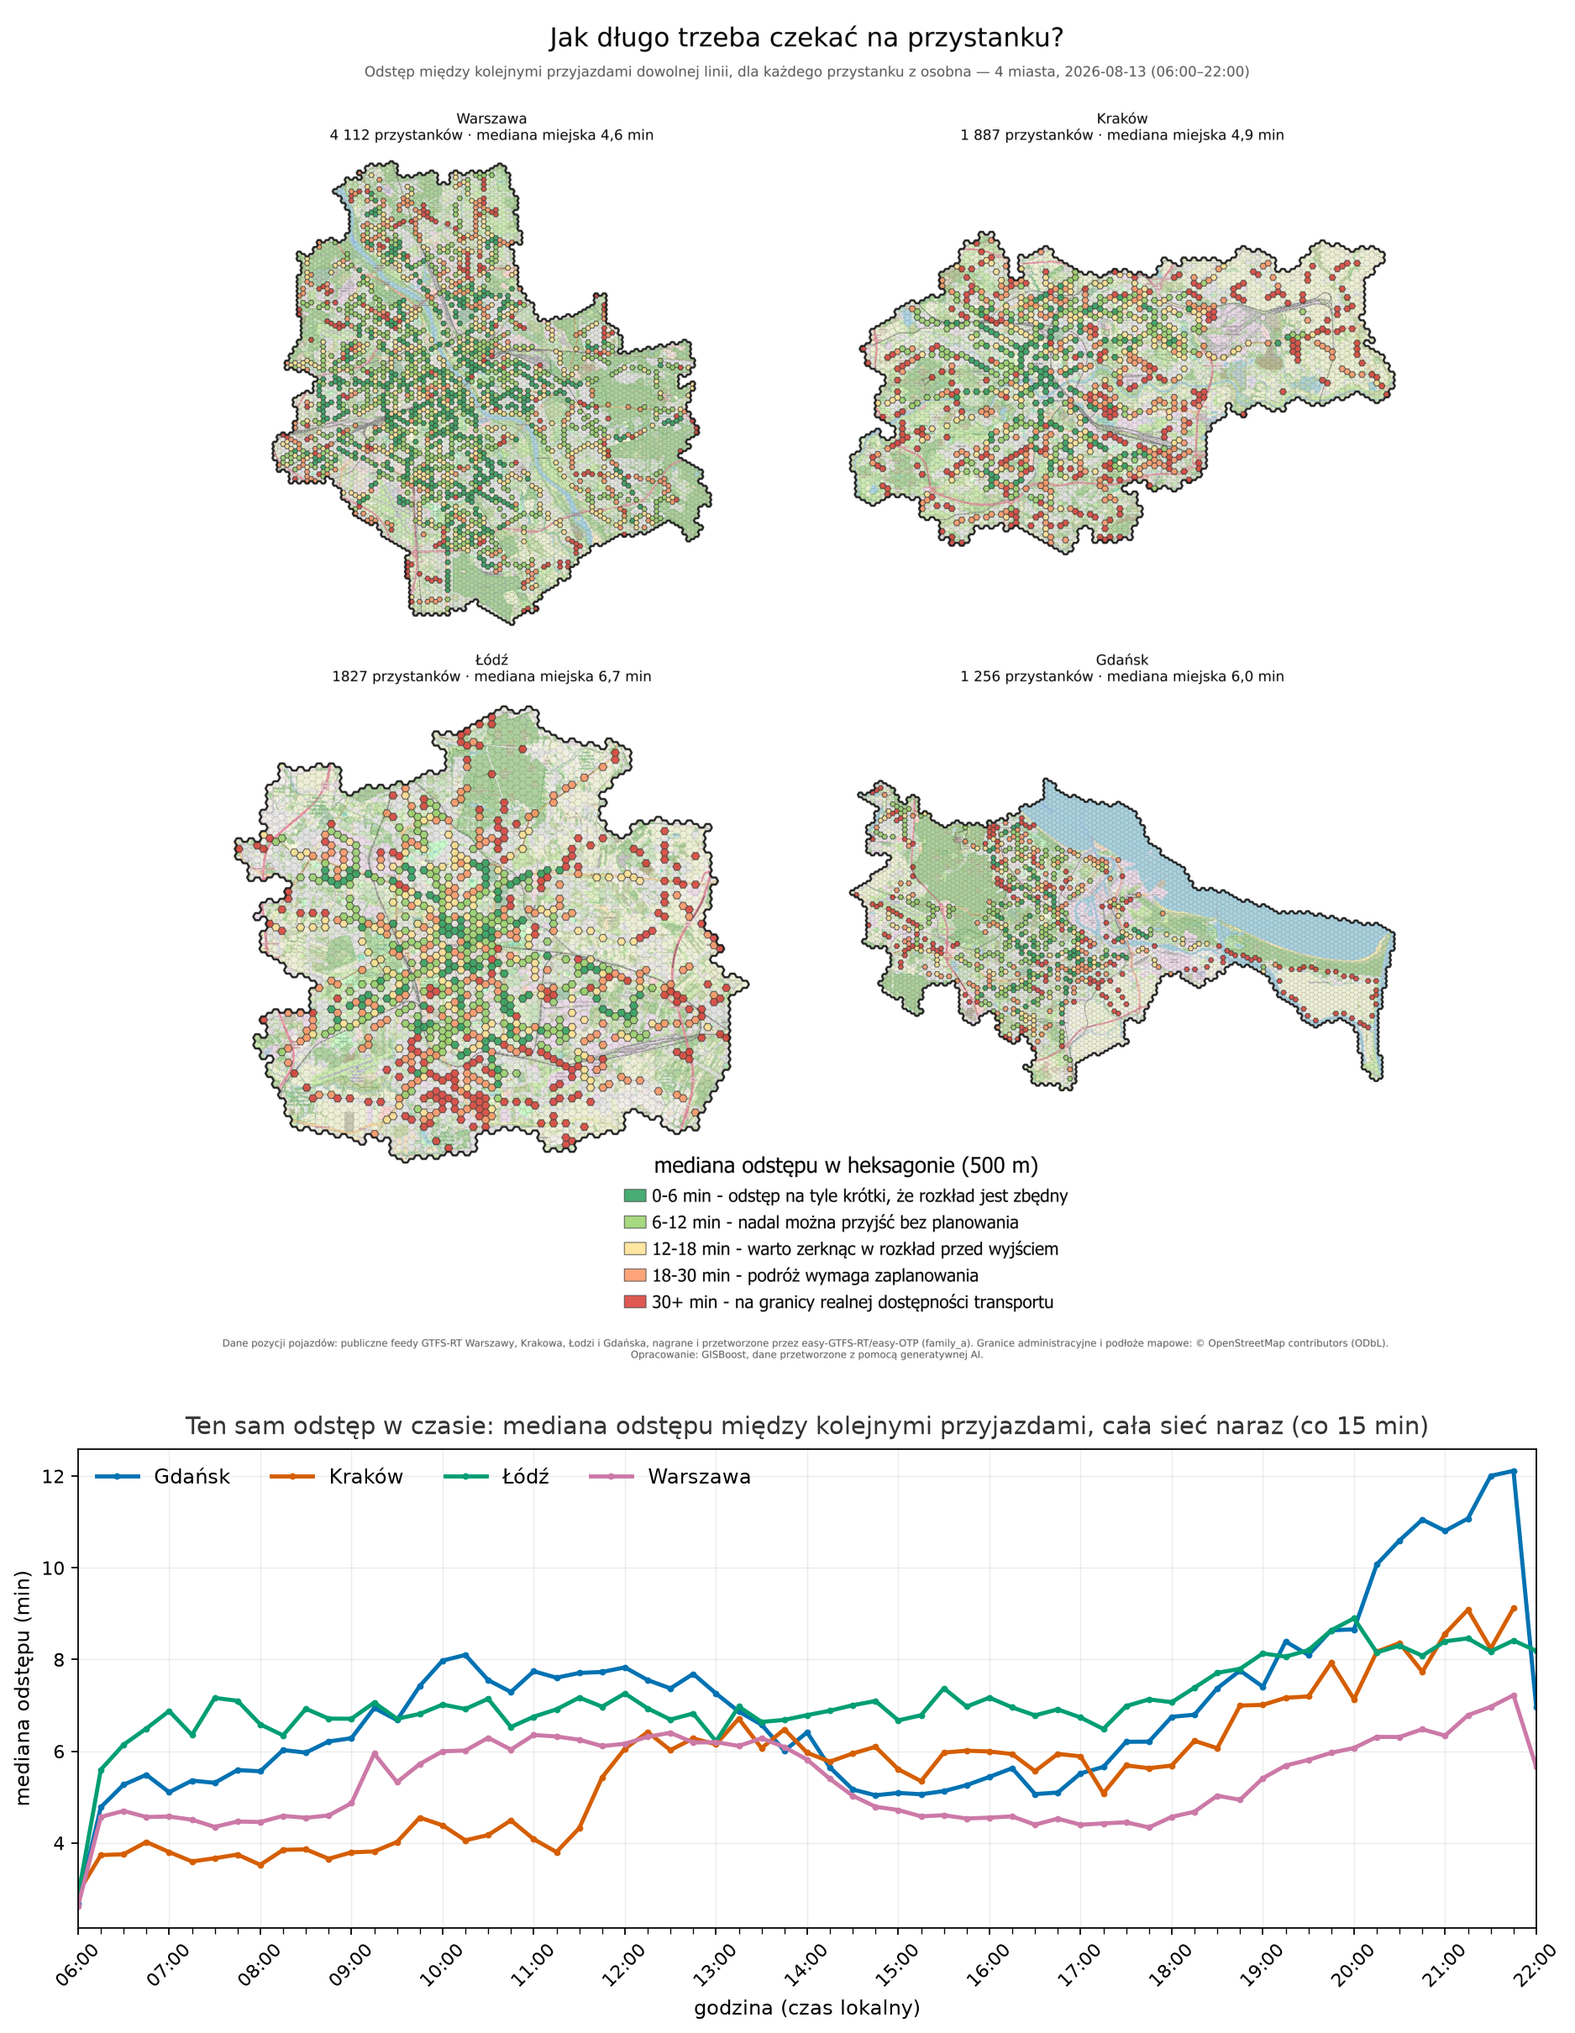
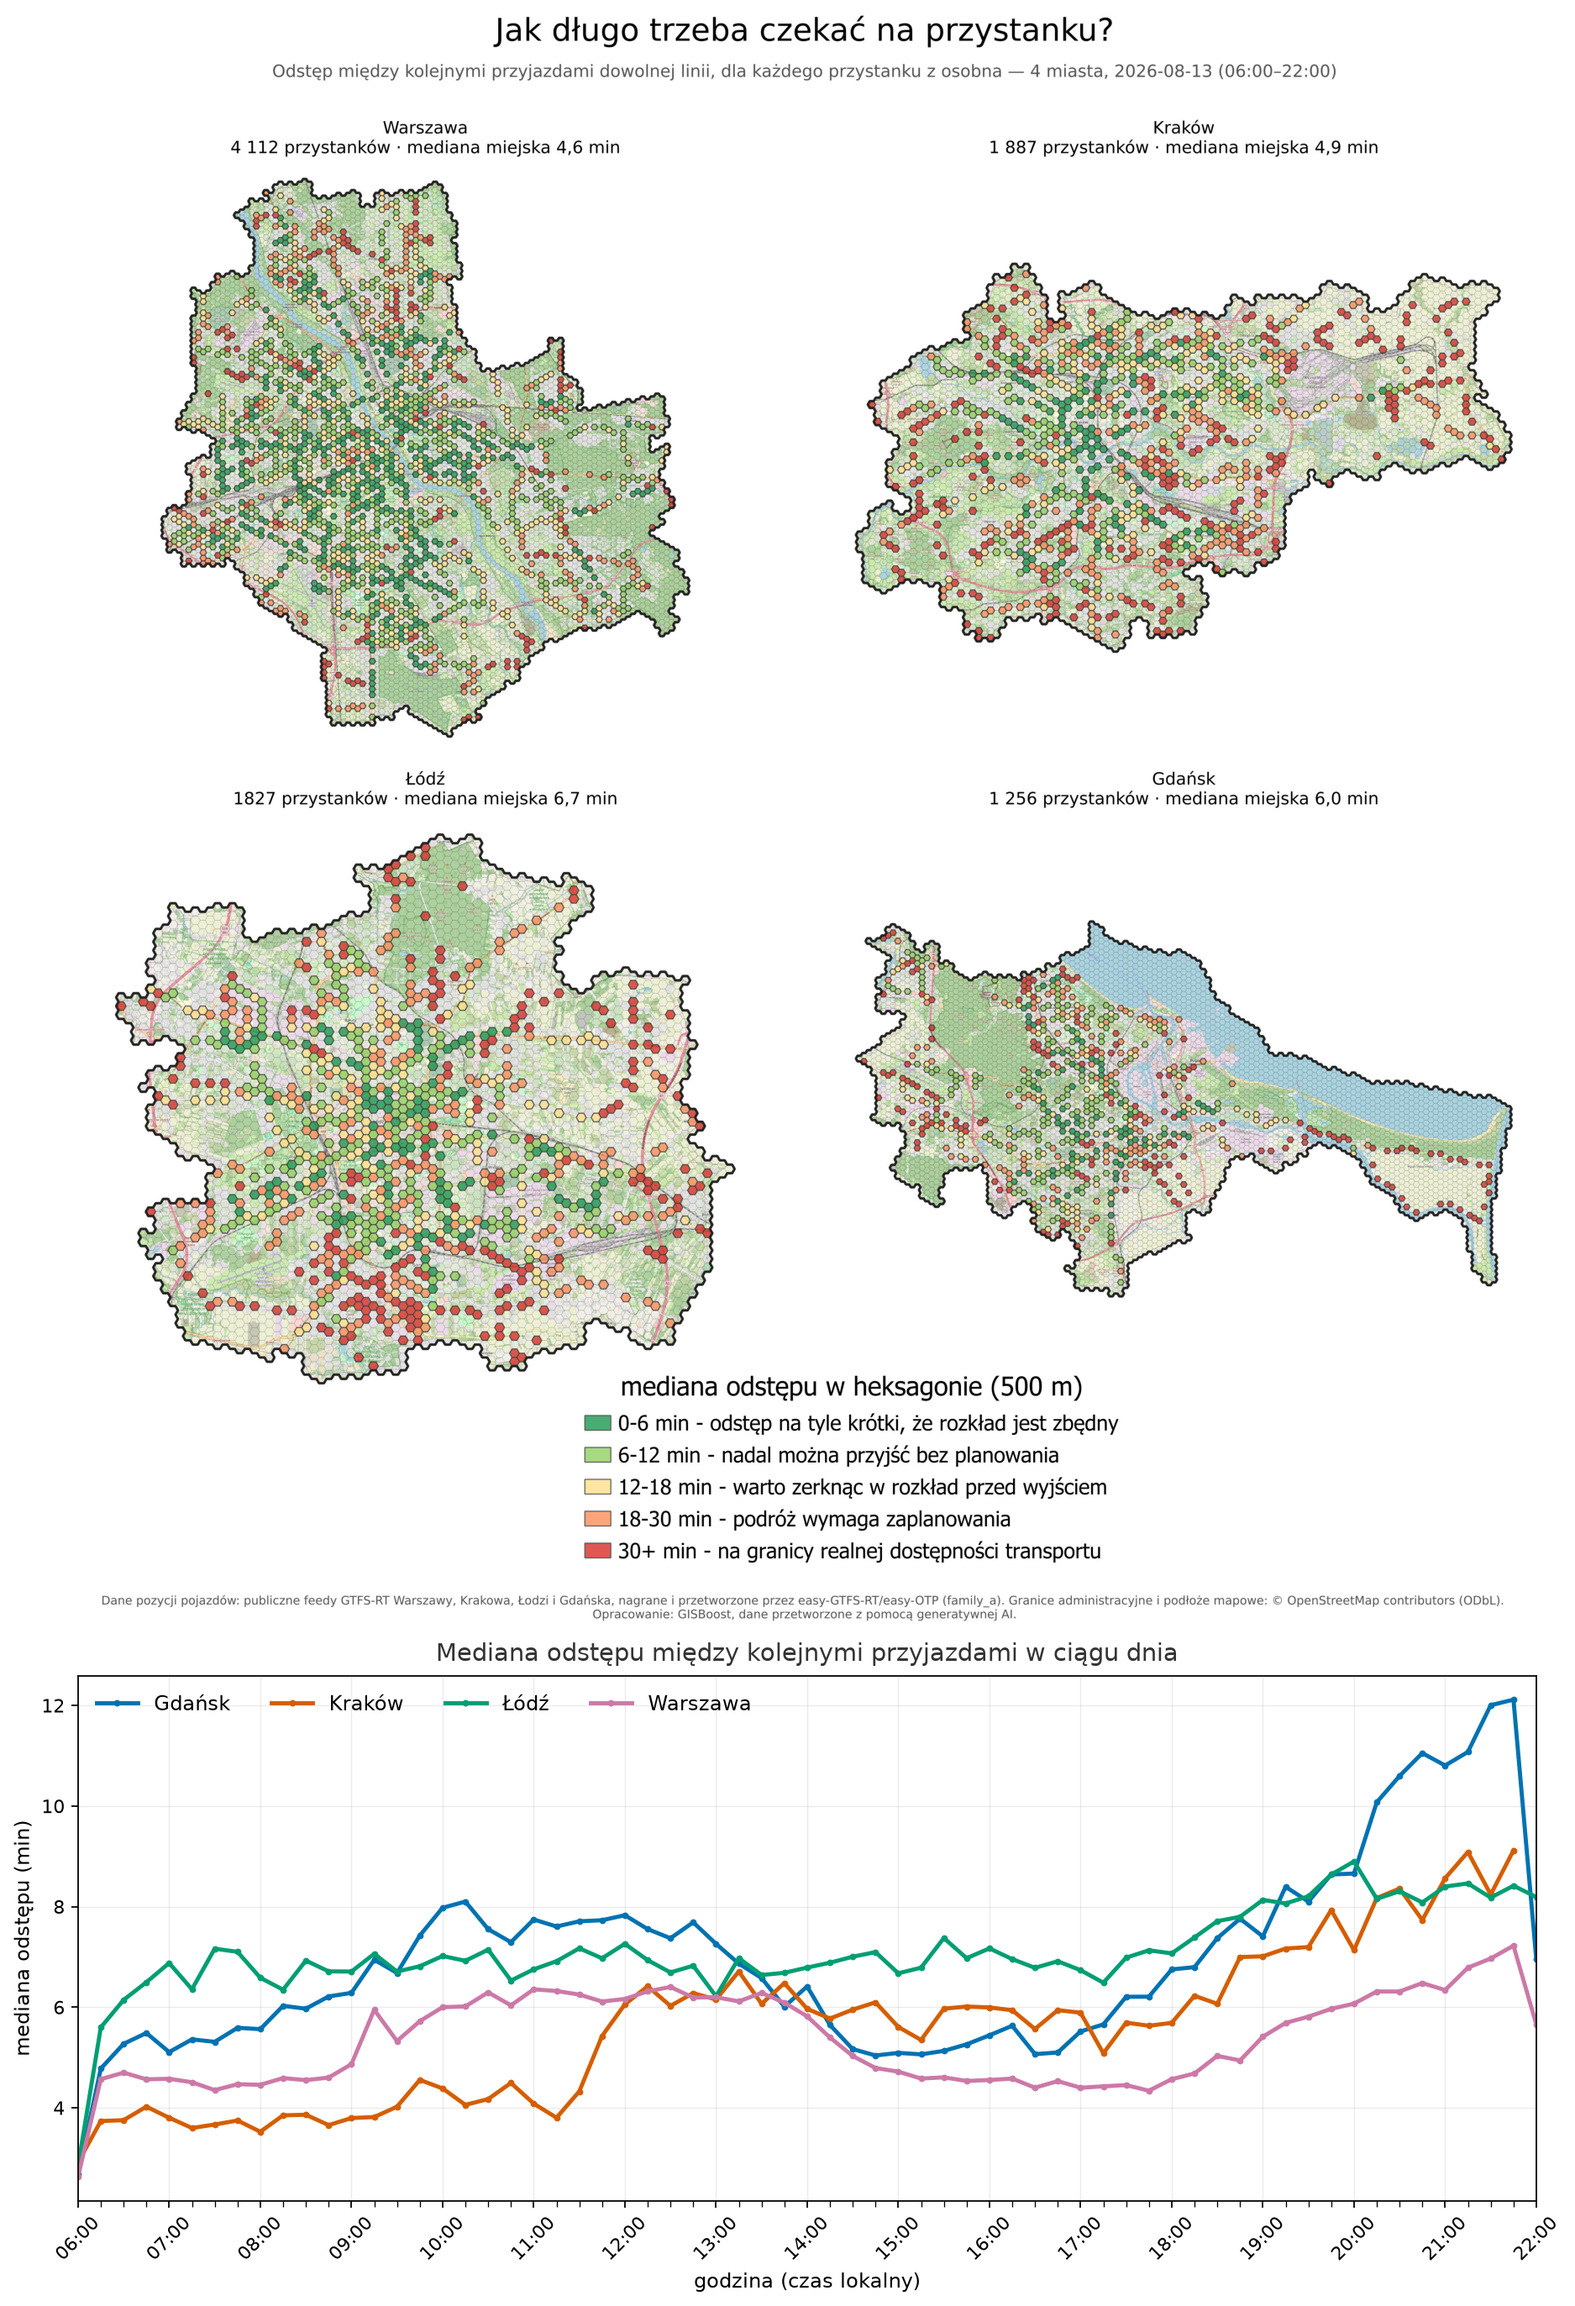
docs(transit_charts): document the per-city QGIS atlas, refresh J39_I37 composite
Adds README §11c (PL/EN) for the "Atlas miast" print layout - one square
page per city, atlas-driven from a hidden bbox coverage layer, methodology
note per page, legend left untouched. Ships the four per-city atlas exports
as examples.

Drops the redundant standalone I37_four_cities image (the map alone,
superseded by the combined J39_I37 composite) and re-crops/rescales that
composite's map panel to fill the image width at its native aspect ratio
instead of a fixed-height stretch.

diff --git a/tools/transit_charts/README.en.md b/tools/transit_charts/README.en.md
@@ -752,6 +752,32 @@ place look like" instead of "what does a typical wait look like in the city". Do
 two numbers to agree - see the `stop_headway.py` module docstring for the full explanation and
 a worked example.
 
+## 11c. QGIS atlas — the I37 map as one page per city
+
+![Atlas — Warszawa](assets/examples/headway_map_example_Warszawa.jpg)
+
+A separate QGIS print layout, **"Atlas miast"**, apart from the 4-panel layout used for the
+J39_I37 composite above - one square page (250x250 mm) per city instead of four panels on one
+sheet. Lives in the same project
+(`out/stop_headway/cities_2026-08-13/four_cities_layout.qgz`), outside CLI reach (same as the
+rest of §11a - a QGIS-side algorithm, not something `transit_charts chart` can invoke on its
+own).
+
+**How it works:** the atlas coverage layer (`atlas_cities_bbox`, hidden in the layer tree - it
+is not meant to be seen on the map, only to drive the pages) is four bounding boxes around each
+city's `<city>_hex500_clip` from I37. The map item is atlas-driven (auto-scale to the feature
+extent plus a 10% margin), the page title is the city name from the feature's attribute. A
+linear scale bar is linked to the map. The legend is the same, untouched one Michal already set
+up by hand in the 4-panel layout.
+
+Each page carries a methodology note in the bottom-left corner (over the map, white
+semi-transparent background): the 500 m grid, the 3-observation floor, the 06:00-22:00 window,
+the data source and OSM attribution, authorship - the same text on all four pages.
+
+Export: `QgsLayoutExporter` driven through the atlas (`atlas.beginRender()` / `seekTo(i)` /
+`exportToImage`/`exportToPdf`) - a multi-page PDF or one JPG per page, like the examples above
+(`headway_map_example_<city>.jpg`).
+
 ## 12. Tests
 
 ```bat

diff --git a/tools/transit_charts/README.md b/tools/transit_charts/README.md
@@ -773,6 +773,30 @@ to konkretne miejsce” zamiast „jak wygląda typowe oczekiwanie w mieście”
 tych dwóch liczb — patrz docstring `stop_headway.py` po dokładne wyjaśnienie i przykład
 liczbowy.
 
+## 11c. Atlas QGIS — mapa I37 jako osobna strona na miasto
+
+![Atlas miast — Warszawa](assets/examples/headway_map_example_Warszawa.jpg)
+
+Wydruk QGIS **"Atlas miast"**, osobny od wydruku 4-panelowego użytego w J39_I37 wyżej — jedna
+strona kwadratowa (250×250 mm) na miasto zamiast czterech paneli na jednej planszy. Żyje w tym
+samym projekcie (`out/stop_headway/cities_2026-08-13/four_cities_layout.qgz`), poza zasięgiem
+CLI (tak jak cała reszta §11a — algorytm QGIS-owy, nie coś, co `transit_charts chart` umie
+wywołać samodzielnie).
+
+**Jak to działa:** warstwa pokrycia atlasu (`atlas_cities_bbox`, widoczność wyłączona w drzewie
+warstw — nie ma się pokazywać na mapie, tylko sterować stronami) to cztery bounding-boxy wokół
+`<miasto>_hex500_clip` z I37. Element mapy jest sterowany atlasem (auto-skalowanie do zasięgu
+cechy + 10% marginesu), tytuł strony to nazwa miasta z atrybutu. Podziałka liniowa powiązana z
+mapą. Legenda — ta sama, nietknięta, którą Michał ustawił ręcznie w wydruku 4-panelowym.
+
+Każda strona ma notkę metodologiczną w lewym dolnym rogu (nad mapą, białe półprzezroczyste
+tło): siatka 500 m, próg min. 3 obserwacje, okno 06:00–22:00, źródło danych i atrybucja OSM,
+autorstwo — ten sam tekst na każdej z czterech stron.
+
+Eksport: `QgsLayoutExporter` przez atlas (`atlas.beginRender()` / `seekTo(i)` /
+`exportToImage`/`exportToPdf`) — PDF wielostronicowy albo JPG per strona, tak jak przykłady
+wyżej (`headway_map_example_<miasto>.jpg`).
+
 ## 12. Testy
 
 ```bat

diff --git a/tools/transit_charts/assets/examples/README.md b/tools/transit_charts/assets/examples/README.md
@@ -33,3 +33,11 @@
 ![I37](lodz_I37.png)
 
 ![J39 wraz z I37](J39_I37_four_cities_2026-08-13.png)
+
+![Atlas miast — Warszawa](headway_map_example_Warszawa.jpg)
+
+![Atlas miast — Kraków](headway_map_example_Kraków.jpg)
+
+![Atlas miast — Łódź](headway_map_example_Łódź.jpg)
+
+![Atlas miast — Gdańsk](headway_map_example_Gdańsk.jpg)
